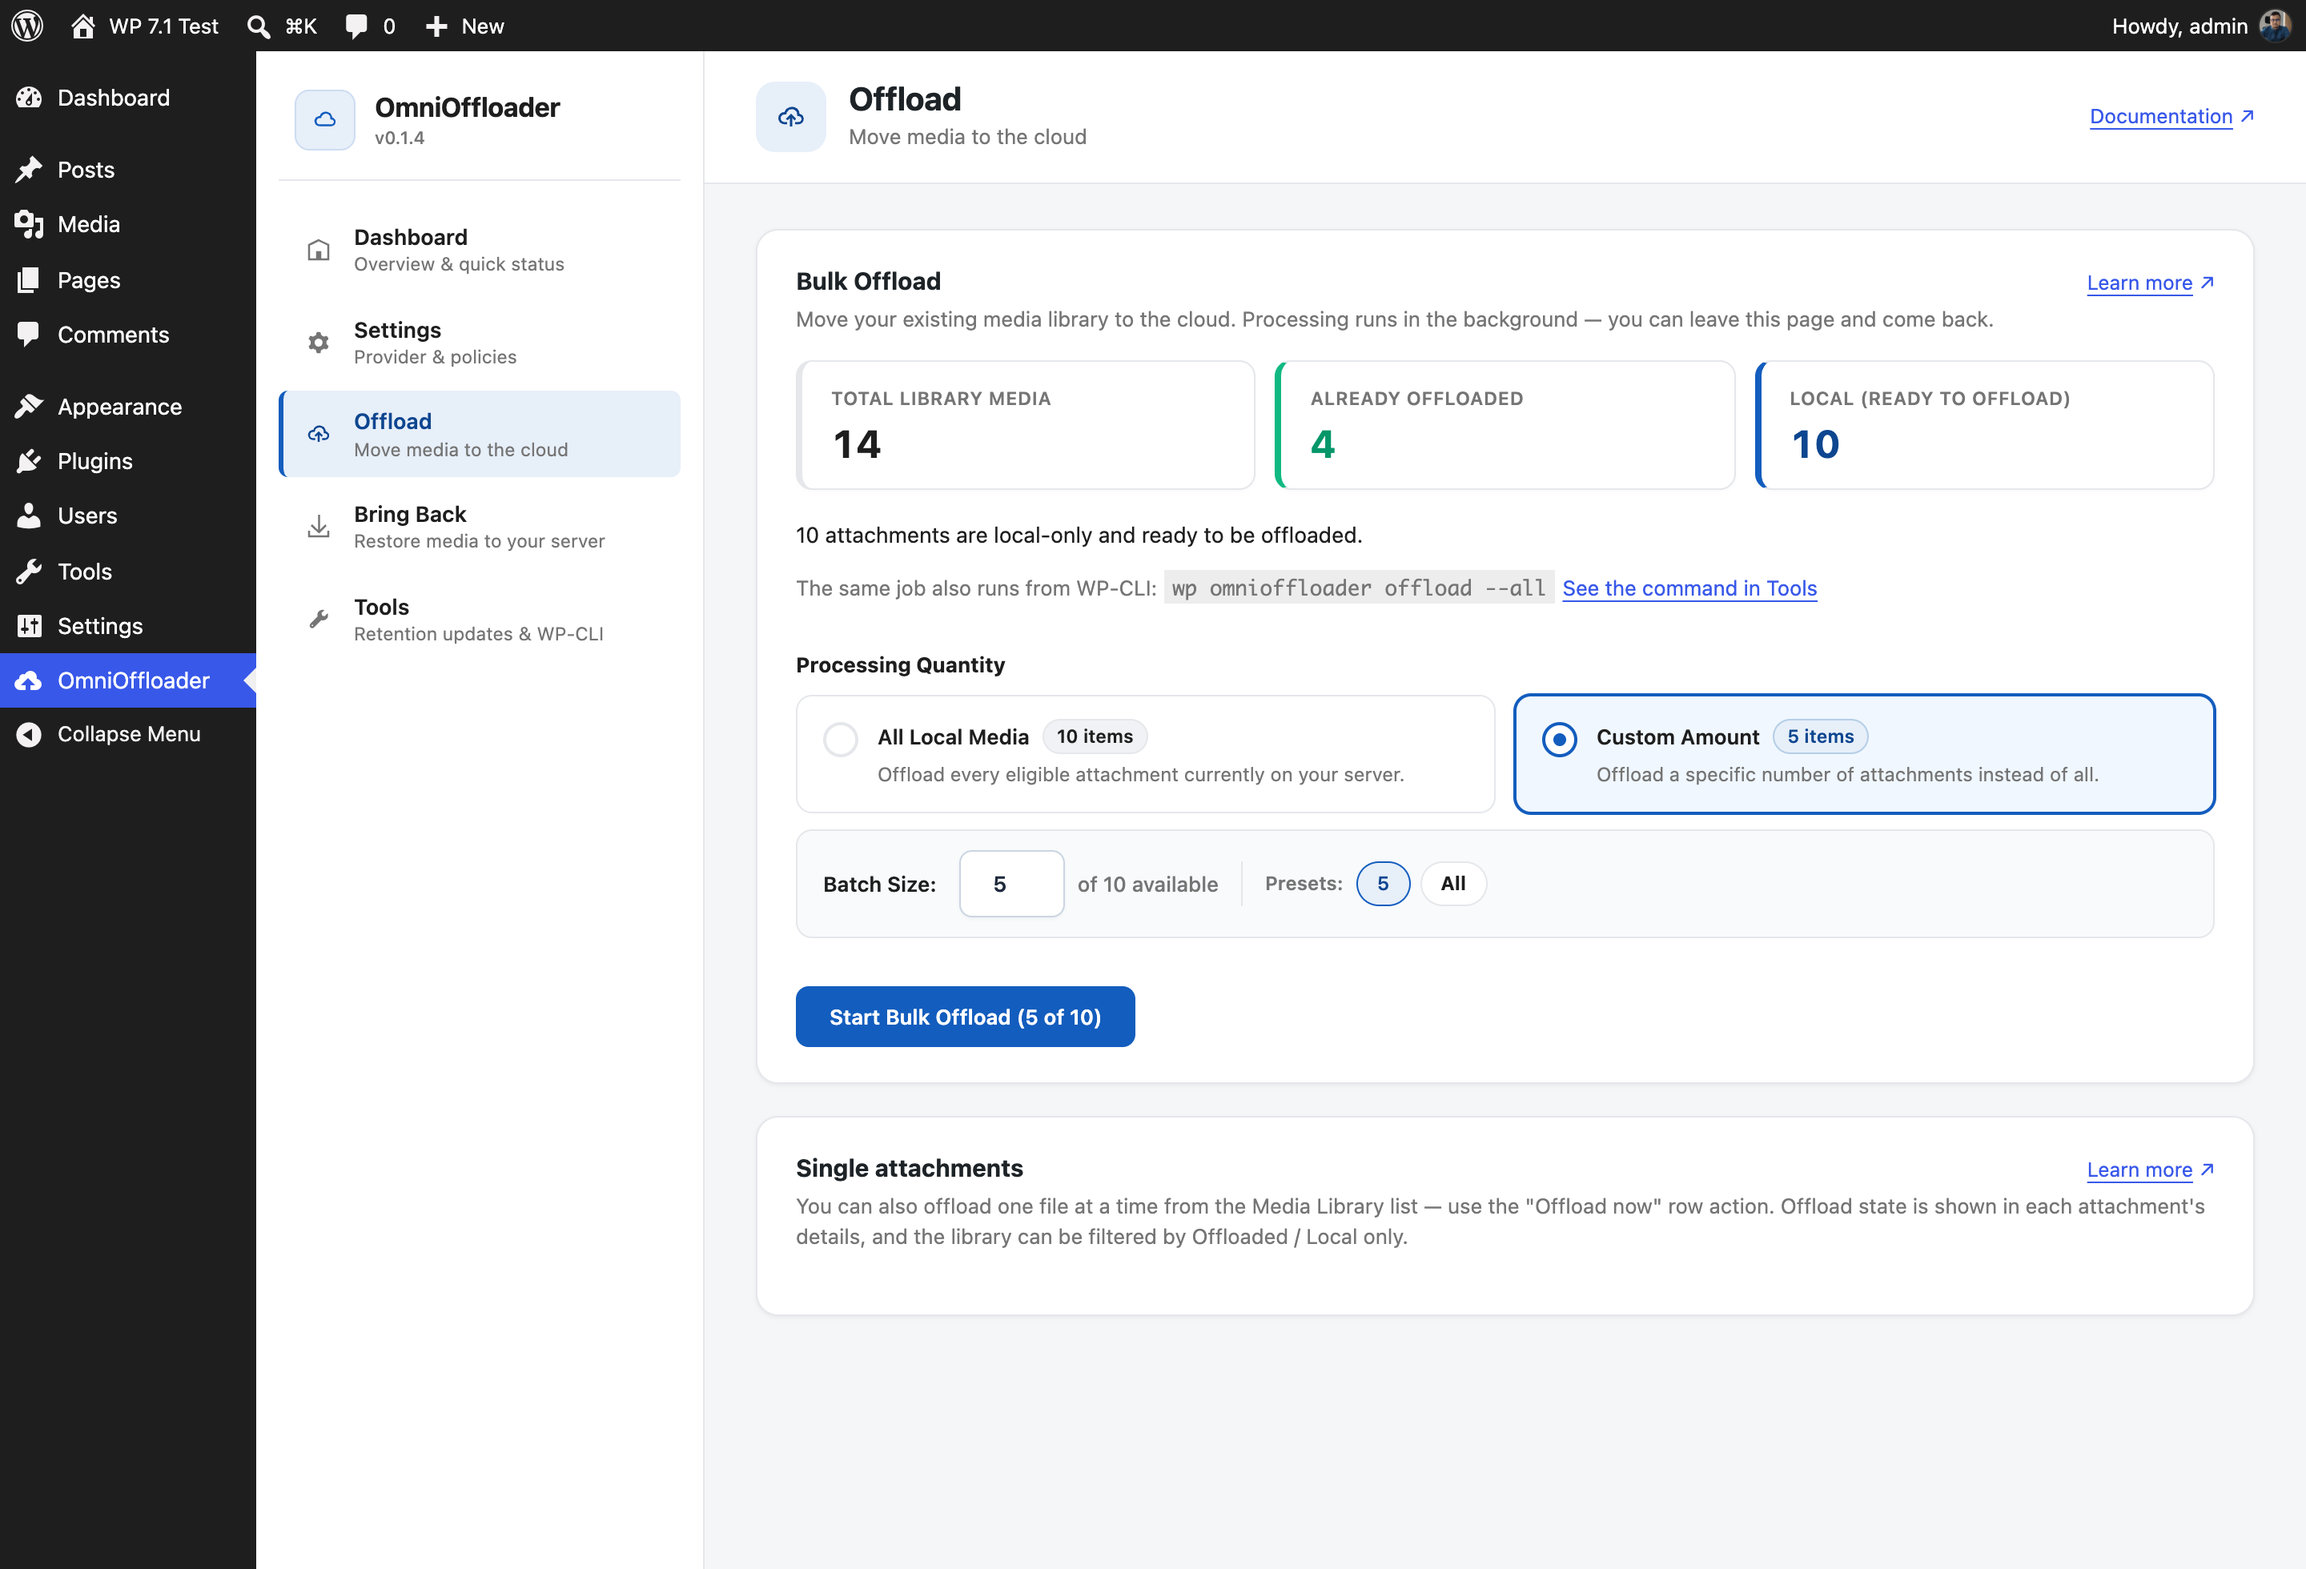
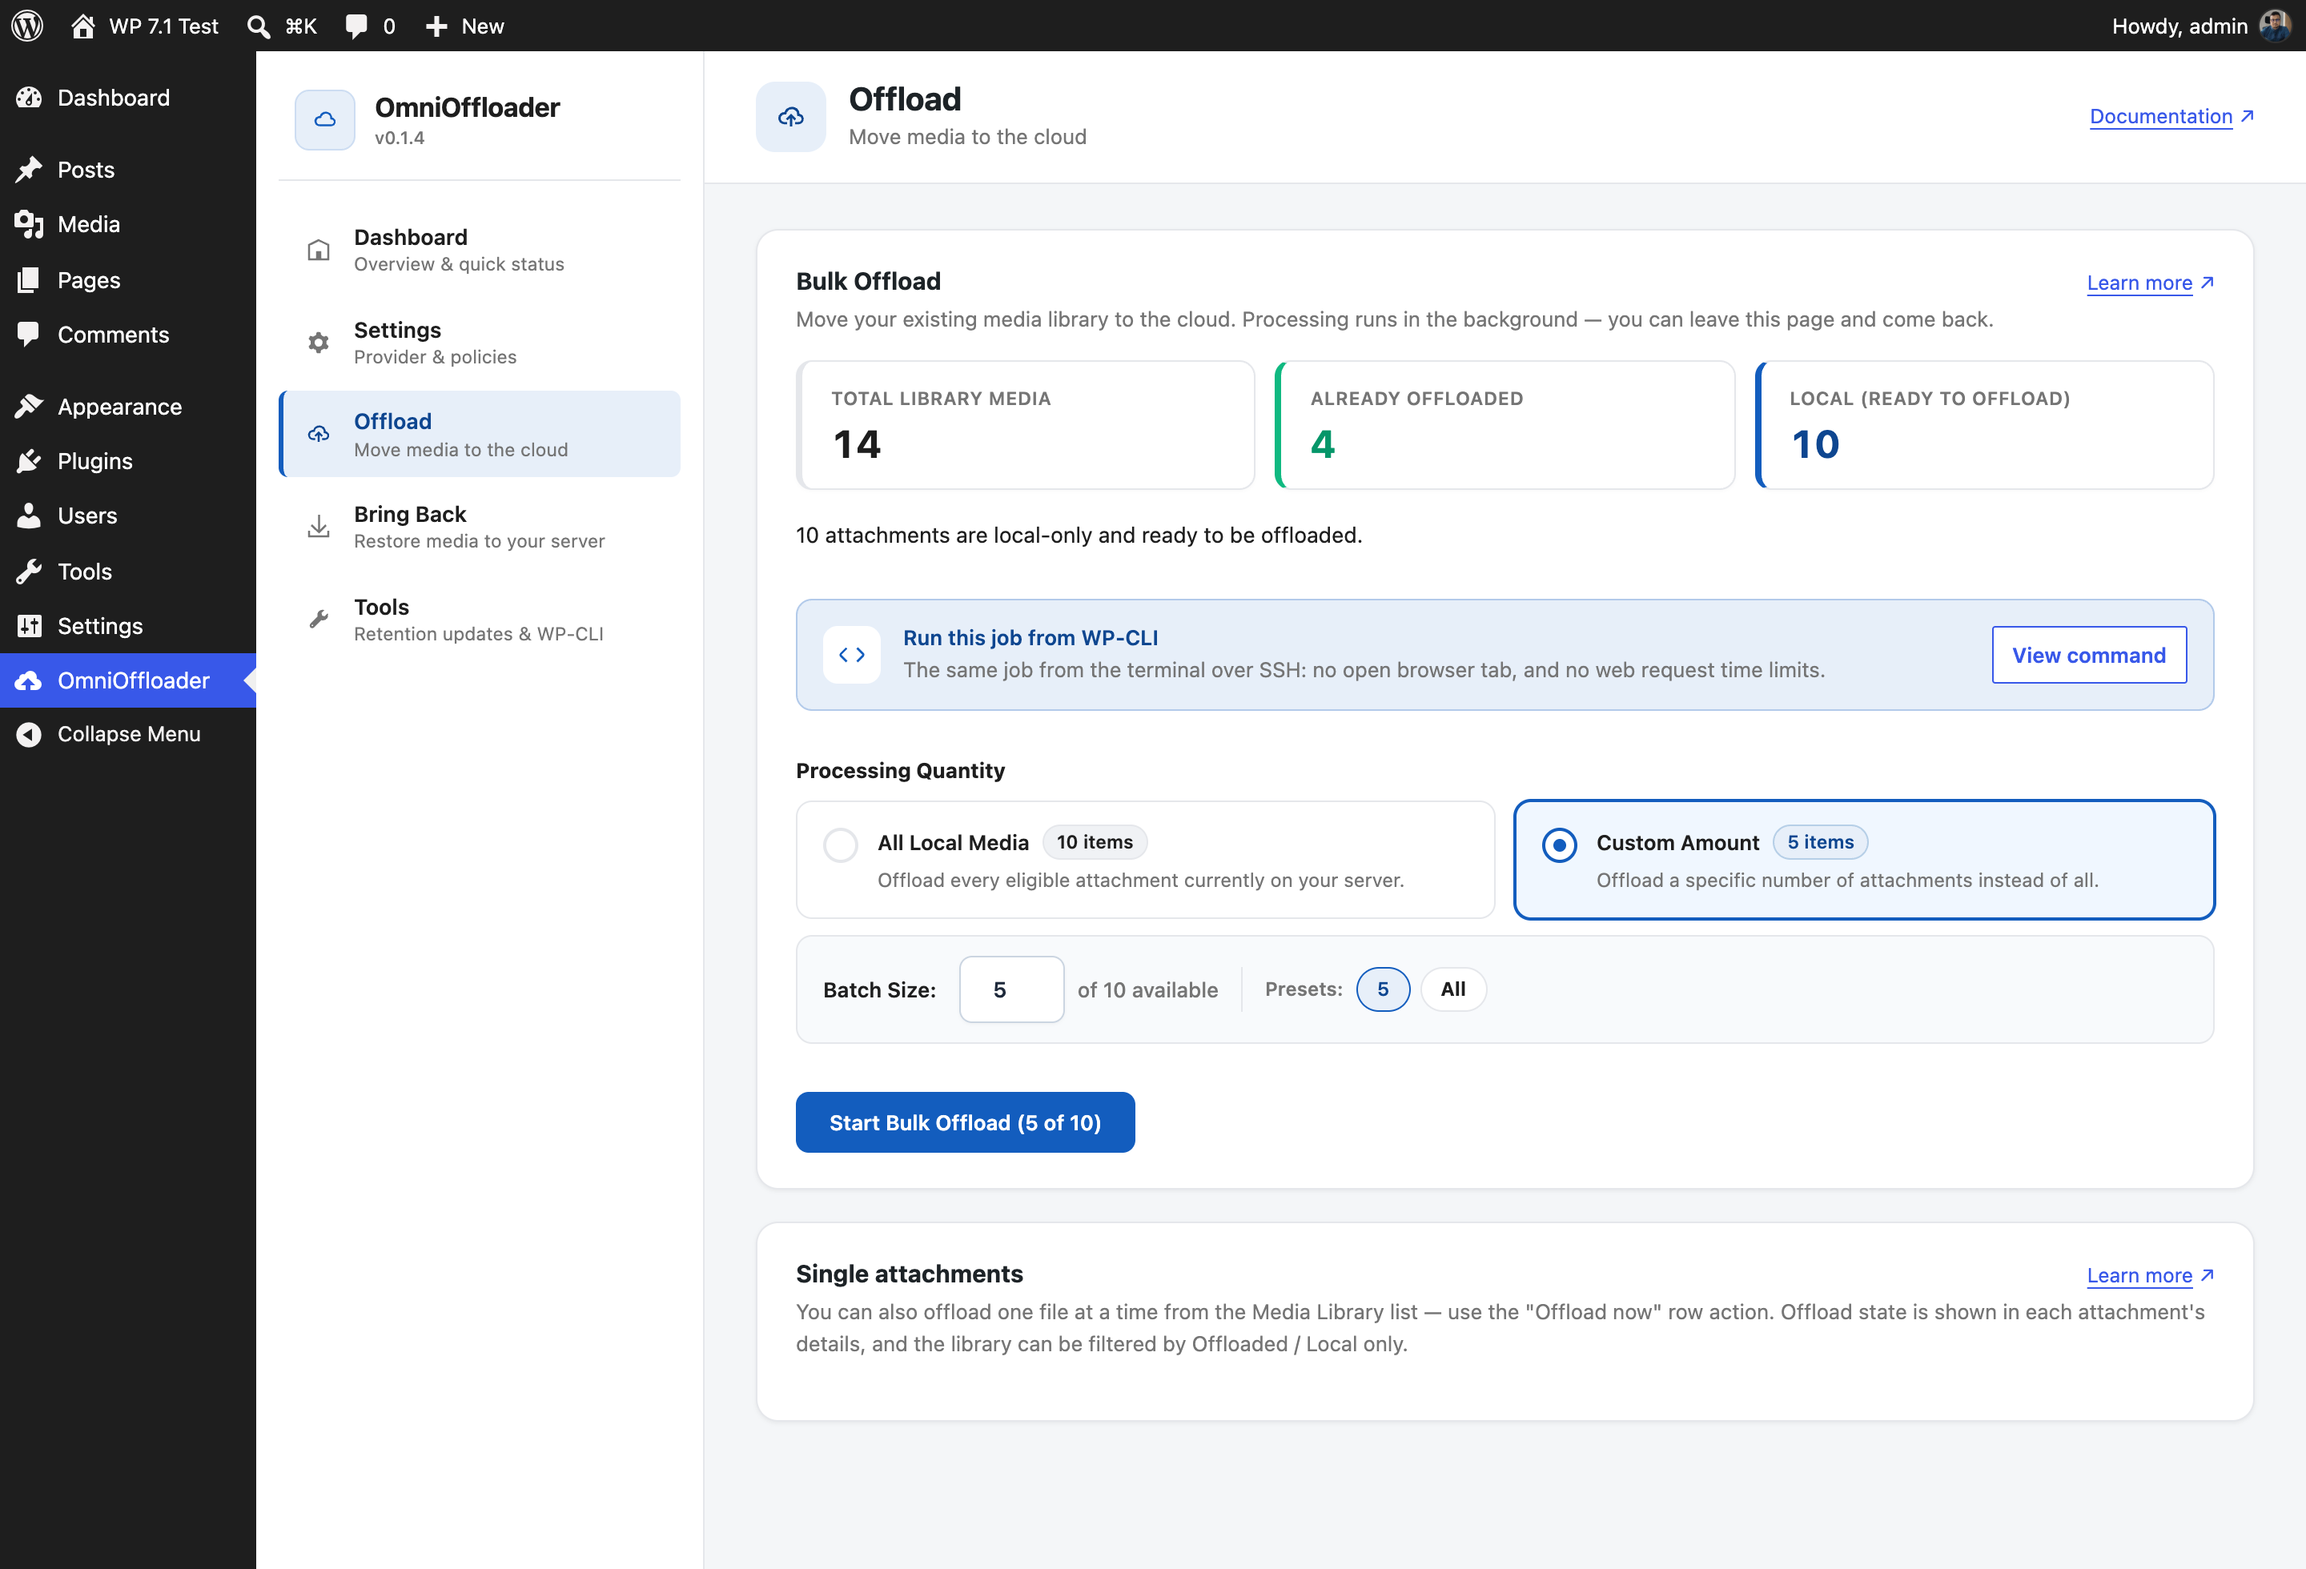
feat(admin): WP-CLI panel on Offload and Bring Back instead of the command
- CliHint is now a panel like the Settings move box: code icon, "Run
  this job from WP-CLI", one line of why, and a View command button that
  opens the command in the Tools WP-CLI reference. No command text on
  the page. Libraries of 5,000+ get a Recommended badge and "For a
  library this size…". Wraps with a full-width button on phones.
- Docs (bulk-offload, bring-back, wp-cli overview), the 0.1.4 changelog
  line, and the bulk-offload / bring-back screenshots (WordPress.org 4
  and 5) updated for the panel.

diff --git a/src/components/ui/CliHint.tsx b/src/components/ui/CliHint.tsx
@@ -1,5 +1,6 @@
-import { Button } from '@wordpress/components';
+import { Button, Icon } from '@wordpress/components';
 import { __ } from '@wordpress/i18n';
+import { code } from '@wordpress/icons';
 
 import { cliSectionId } from '../tools/CliReference';
 import { LARGE_LIBRARY } from '../../utils/constants';
@@ -7,41 +8,51 @@ import { LARGE_LIBRARY } from '../../utils/constants';
 interface CliHintProps {
 	/** Command name after `wp omnioffloader`, e.g. 'offload'. */
 	command: string;
-	/** Example to show, e.g. 'wp omnioffloader offload --all'. */
-	example: string;
-	/** Attachments the job would handle; a large library gets a stronger hint. */
+	/** Attachments the job would handle; a large library is told to prefer it. */
 	count: number;
 	onNavigate: ( view: string, section?: string ) => void;
 }
 
 /**
- * The WP-CLI command for a bulk job, with a link to its entry in the Tools
- * page's WP-CLI reference.
+ * A panel pointing to the bulk job's command in the Tools page's WP-CLI
+ * reference, recommended for large libraries.
  */
-export function CliHint( {
-	command,
-	example,
-	count,
-	onNavigate,
-}: CliHintProps ) {
+export function CliHint( { command, count, onNavigate }: CliHintProps ) {
+	const large = count >= LARGE_LIBRARY;
+
 	return (
-		<p className="smowp-muted">
-			{ count >= LARGE_LIBRARY
-				? __(
-						'Large library? Running this from WP-CLI is usually faster and needs no open browser tab:',
-						'omnioffloader'
-					)
-				: __(
-						'The same job also runs from WP-CLI:',
-						'omnioffloader'
-					) }{ ' ' }
-			<code>{ example }</code>{ ' ' }
+		<div className="smowp-cli-hint">
+			<span className="smowp-cli-hint__icon" aria-hidden="true">
+				<Icon icon={ code } size={ 20 } />
+			</span>
+			<div className="smowp-cli-hint__text">
+				<strong>
+					{ __( 'Run this job from WP-CLI', 'omnioffloader' ) }
+				</strong>
+				{ large && (
+					<span className="smowp-badge smowp-badge--accent">
+						{ __( 'Recommended', 'omnioffloader' ) }
+					</span>
+				) }
+				<p>
+					{ large
+						? __(
+								'For a library this size, the terminal is usually faster and needs no open browser tab.',
+								'omnioffloader'
+							)
+						: __(
+								'The same job from the terminal over SSH: no open browser tab, and no web request time limits.',
+								'omnioffloader'
+							) }
+				</p>
+			</div>
 			<Button
-				variant="link"
+				variant="secondary"
+				className="smowp-cli-hint__button"
 				onClick={ () => onNavigate( 'tools', cliSectionId( command ) ) }
 			>
-				{ __( 'See the command in Tools', 'omnioffloader' ) }
+				{ __( 'View command', 'omnioffloader' ) }
 			</Button>
-		</p>
+		</div>
 	);
 }

diff --git a/src/index.scss b/src/index.scss
@@ -414,6 +414,60 @@
 	outline: none;
 }
 
+// Offload / Bring Back: pointer to the job's WP-CLI command in Tools.
+.smowp-cli-hint {
+	display: flex;
+	align-items: center;
+	gap: 14px;
+	margin: 16px 0 0;
+	padding: 14px 16px;
+	border: 1px solid rgba( 19, 93, 190, 0.25 );
+	border-radius: var( --smowp-radius-sm );
+	background: var( --smowp-accent-tint );
+
+	&__icon {
+		display: inline-flex;
+		flex-shrink: 0;
+		align-items: center;
+		justify-content: center;
+		width: 36px;
+		height: 36px;
+		border-radius: 9px;
+		background: var( --smowp-surface );
+		color: var( --smowp-accent );
+	}
+
+	&__text {
+		flex: 1;
+		min-width: 0;
+
+		strong {
+			margin-right: 8px;
+			color: var( --smowp-accent-dark );
+		}
+
+		p {
+			margin: 2px 0 0;
+			color: var( --smowp-text-muted );
+			font-size: 13px;
+		}
+	}
+
+	&__button.components-button {
+		flex-shrink: 0;
+		background: var( --smowp-surface );
+	}
+
+	@media ( max-width: 600px ) {
+		flex-wrap: wrap;
+
+		&__button.components-button {
+			width: 100%;
+			justify-content: center;
+		}
+	}
+}
+
 // Path Prefix change notice under the field.
 .smowp-prefix-notice.components-notice {
 	margin: 16px 0 0;

diff --git a/src/pages/BringBack.tsx b/src/pages/BringBack.tsx
@@ -260,7 +260,6 @@ export function BringBackPage( { onNavigate }: BringBackProps ) {
 							{ offloadedCount > 0 && (
 								<CliHint
 									command="restore"
-									example="wp omnioffloader restore --all"
 									count={ offloadedCount }
 									onNavigate={ onNavigate }
 								/>

diff --git a/src/pages/Offload.tsx b/src/pages/Offload.tsx
@@ -218,7 +218,6 @@ export function OffloadPage( { onNavigate }: OffloadProps ) {
 							{ localCount > 0 && (
 								<CliHint
 									command="offload"
-									example="wp omnioffloader offload --all"
 									count={ localCount }
 									onNavigate={ onNavigate }
 								/>

diff --git a/docs/src/content/docs/wp-cli/index.md b/docs/src/content/docs/wp-cli/index.md
@@ -23,7 +23,7 @@ The same reference, with copy buttons, is on the **OmniOffloader → Tools** scr
 
 ## When to use WP-CLI
 
-- **Large libraries.** A terminal command is not limited by the browser or by short web request time limits. The Bulk Offload and Bring Back screens show the matching command, with a link to it in the WP-CLI reference on the Tools screen, and recommend it for libraries of 5,000 items or more. For tens of thousands of items, add [`--concurrency`](/wp-cli/offload/) to upload many files at once.
+- **Large libraries.** A terminal command is not limited by the browser or by short web request time limits. The Bulk Offload and Bring Back screens have a **Run this job from WP-CLI** panel: **View command** opens the matching command in the WP-CLI reference on the Tools screen. For libraries of 5,000 items or more the panel recommends it. For tens of thousands of items, add [`--concurrency`](/wp-cli/offload/) to upload many files at once.
 - **SSH access.** You can run a job on the server directly and watch a progress bar.
 - **Long jobs.** Start it with `nohup … &` and close the terminal; the job keeps going and writes its progress to a log file. See [Long runs and log files](/wp-cli/long-runs/).
 - **Scheduled work.** Use `--limit` with a cron job to work through a big library in small chunks, for example 500 attachments each night.
